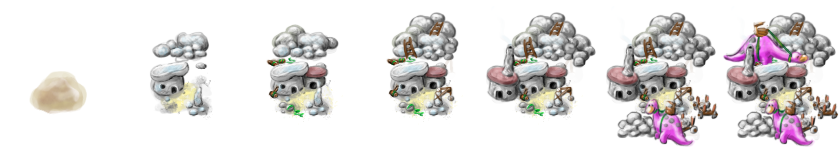
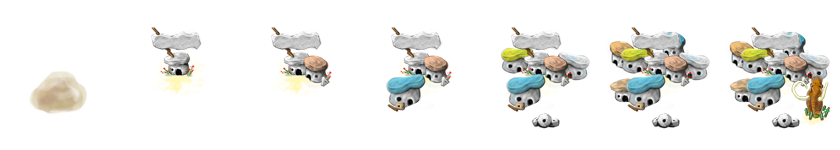
new images, display settlement after it's loaded

diff --git a/client/js/awe/util/rulehelpers.js b/client/js/awe/util/rulehelpers.js
@@ -163,7 +163,7 @@ AWE.Util.Rules = (function(module) /** @lends AWE.Util.Rules */ {
       return module.meetsScienceRequirement(requirement, character, considerJobs);
     }
     else {
-      console.log('ERROR: Requirement of unknown type ', requirement.type);
+      //console.log('ERROR: Requirement of unknown type ', requirement.type);
     }
     return true ;
   };
@@ -192,18 +192,22 @@ AWE.Util.Rules = (function(module) /** @lends AWE.Util.Rules */ {
     var slots = settlement.get('enumerableSlots') || [];
     var maxMet = !(requirement.max_level !== undefined && requirement.max_level !== null && requirement.max_level < 0) ; // cannot bet true, when smaller than zero.
     var minMet = requirement.min_level === undefined || requirement.min_level === null || requirement.min_level <= 0; // it's always true, if it's not specified or less equal 0
+    var excludeSlotNum = slotToExclude ? slotToExclude.get('slot_num') : -1;
     
     slots.forEach(function(item) {
-      if (! slotToExclude || slotToExclude.get('slot_num') !== item.get('slot_num')) {
-        var buildingId = item.get('building_id');
-        if (buildingId && requirement.id === buildingId && requirement.max_level !== undefined && requirement.max_level !== null) {
+      if (excludeSlotNum !== item.get('slot_num')) {
+
+        var buildingId = item.get('building_id'); 
+        buildingId = buildingId === undefined || buildingId === null ? -1 : buildingId; //protect against undefined and null, wheras id 0 is ok!
+        if (requirement.id === buildingId && requirement.max_level !== undefined && requirement.max_level !== null) {
           maxMet = maxMet && requirement.max_level >= (considerJobs ? item.get('levelAfterJobs') : item.get('level'));    // all buildings must not be larger than the max level. may consider ongoing jobs in order to prevent queueing two mutually exclusive buildings
         }
-        if (buildingId && requirement.id === buildingId && requirement.min_level) {
+        if (requirement.id === buildingId && requirement.min_level) {
           minMet = minMet || requirement.min_level <= item.get('level');    // one building must be larger than or equal to the min level; no not consider ongoing jobs; building must be finished to allow queueing of a dependent building
         }
       }
     });
+    
     return maxMet && minMet;
   };
   

diff --git a/client/js/awe/UI/ember/templates/basescreen.html b/client/js/awe/UI/ember/templates/basescreen.html
@@ -22,22 +22,20 @@
       {{#if queues }}
         {{view AWE.UI.Ember.ConstructionQueueView controllerBinding="controller" classNames="queue-list" queuesBinding="queues.collection"}}
       {{/if}}
-    {{/if}}
 
-    {{#if selectedSlot}}
-      {{#if selectedSlot.building }}
-        {{view AWE.UI.Ember.BuildingDetailsDialog controllerBinding="controller" slotBinding="selectedSlot" buildingBinding="selectedSlot.building"}}
-      {{else}}
-        {{view AWE.UI.Ember.SelectBuildingDialog controllerBinding="controller" slotBinding="selectedSlot" constructionOptionsBinding="selectedSlot.constructionOptions"}}
+      {{#if selectedSlot}}
+        {{#if selectedSlot.building }}
+          {{view AWE.UI.Ember.BuildingDetailsDialog controllerBinding="controller" slotBinding="selectedSlot" buildingBinding="selectedSlot.building"}}
+        {{else}}
+          {{view AWE.UI.Ember.SelectBuildingDialog controllerBinding="controller" slotBinding="selectedSlot" constructionOptionsBinding="selectedSlot.constructionOptions"}}
+        {{/if}}
       {{/if}}
-    {{/if}}
     
-    {{#if "hoveredBuildingSlotView" }}
-      {{view AWE.UI.Ember.ToolTipView templateName="building-slot-tooltip" classNames="mouse-over" mouseXBinding="hoveredBuildingSlotView.mouseX" mouseYBinding="hoveredBuildingSlotView.mouseY" buildingBinding="hoveredBuildingSlotView.slot.building"}}
-    {{/if}}      
-  </div>
+      {{#if "hoveredBuildingSlotView" }}
+        {{view AWE.UI.Ember.ToolTipView templateName="building-slot-tooltip" classNames="mouse-over" mouseXBinding="hoveredBuildingSlotView.mouseX" mouseYBinding="hoveredBuildingSlotView.mouseY" buildingBinding="hoveredBuildingSlotView.slot.building"}}
+      {{/if}}      
+    </div>
   
-  {{#if settlement}}
     {{view AWE.UI.Ember.SettlementInfoBoxView classNames="settlement-info-box" settlementBinding="settlement" }}
   {{/if}}
 </div>

diff --git a/client/js/awe/UI/ember/templates/settlementviews.html b/client/js/awe/UI/ember/templates/settlementviews.html
@@ -2,12 +2,12 @@
 
 <script type="text/x-handlebars" data-template-name="settlement-info-box">
   <h1>{{settlement.name}} <a href="#" class="change-name" {{action "changeNamePressed"}}>change name</a></h1>
-  <p><span title="defensive bonus to all armies fighting on the side of this settlement">Def +{{defenseBonus}}%</span> | 
-     <span title="rate at which new buildings and upgrades are constructed"> B {{view AWE.UI.Ember.WheelOrValueView valueBinding="buildingSpeed"}}%</span> | 
-     <span title="rate at which foot soldiers are trained"     >F {{infantryTrainingSpeed}}%</span> |
-     <span title="rate at which mounted troops are trained"    >C {{cavalryTrainingSpeed}}%</span> | 
-     <span title="rate at which ranged troops are trained"     >R {{artilleryTrainingSpeed}}%</span> | 
-     <span title="rate at which siege machines are constructed">S {{siegeTrainingSpeed}}%</span><br>
+  <p><span title="defensive bonus to all armies fighting on the side of this settlement">Def +{{formatNumber defenseBonus places="0"}}%</span> | 
+     <span title="rate at which new buildings and upgrades are constructed"> B {{formatNumber buildingSpeed places="0"}}%</span> | 
+     <span title="rate at which foot soldiers are trained"     >F {{formatNumber infantryTrainingSpeed places="0"}}%</span> |
+     <span title="rate at which mounted troops are trained"    >C {{formatNumber cavalryTrainingSpeed places="0"}}%</span> | 
+     <span title="rate at which ranged troops are trained"     >R {{formatNumber artilleryTrainingSpeed places="0"}}%</span> | 
+     <span title="rate at which siege machines are constructed">S {{formatNumber siegeTrainingSpeed places="0"}}%</span><br>
   
      {{#each settlement.resourceProductions}}
        <span {{bindAttr title="localizedDetails"}}="">{{local resourceType.name}} {{formatNumber rate places="0"}}/h</span> |

diff --git a/client/css/style.css b/client/css/style.css
@@ -863,6 +863,8 @@ span.bonus {
   
   cursor: pointer; 
 }
+
+
 .building-option.requirement-unmet {
   background-color: #FDD;
 }
@@ -906,14 +908,24 @@ span.bonus {
   width: 120px;
   height:150px;
   margin-left: 0px;
+  background: url('../images/settlements/base/building_category_large_building.png');
 }
 
-/** image for building_siege_tower */
+.base-screen .settlement-dialog-building-details .building-option-image {
+  margin-top: -10px;
+  margin-bottom: -10px;
+}
+
+
+/** image for base buildings */
 .building-option-image.building_quarry {
   background: url('../images/settlements/base/building_quarry_large.png');
 }
 .building-option-image.building_palace {
   background: url('../images/settlements/base/building_palace_large.png');
+}
+.building-option-image.building_logger {
+  background: url('../images/settlements/base/building_logger_large.png');
 }
 
 
@@ -1365,8 +1377,23 @@ span.bonus {
   background: url('../images/settlements/fortress/building_cavalry_tower.png');
 }
 
+/** base: large slots */
 .base-picture .large-building.building_palace {
   background: url('../images/settlements/base/building_palace_large.png');
+}
+.base-picture .large-building.building_logger {
+  background: url('../images/settlements/base/building_logger_large.png');
+}
+.base-picture .large-building.building_quarry {
+  background: url('../images/settlements/base/building_quarry_large.png');
+}
+
+/** base: small slots */
+.base-picture .small-building.building_logger {
+  background: url('../images/settlements/base/building_logger_small.png');
+}
+.base-picture .small-building.building_quarry {
+  background: url('../images/settlements/base/building_quarry_small.png');
 }
 
 

diff --git a/client/js/awe/UI/ember/templates/fortressscreen.html b/client/js/awe/UI/ember/templates/fortressscreen.html
@@ -15,20 +15,19 @@
       {{/if}}
 
       {{view AWE.UI.Ember.SettlementInfoBoxView classNames="settlement-info-box" settlementBinding="settlement"}}
-    {{/if}}
 
-    {{#if selectedSlot}}
-      {{#if selectedSlot.building }}
-        {{view AWE.UI.Ember.BuildingDetailsDialog controllerBinding="controller" slotBinding="selectedSlot" buildingBinding="selectedSlot.building"}}
-      {{else}}
-        {{view AWE.UI.Ember.SelectBuildingDialog controllerBinding="controller" slotBinding="selectedSlot" constructionOptionsBinding="selectedSlot.constructionOptions"}}
+      {{#if selectedSlot}}
+        {{#if selectedSlot.building }}
+          {{view AWE.UI.Ember.BuildingDetailsDialog controllerBinding="controller" slotBinding="selectedSlot" buildingBinding="selectedSlot.building"}}
+        {{else}}
+          {{view AWE.UI.Ember.SelectBuildingDialog controllerBinding="controller" slotBinding="selectedSlot" constructionOptionsBinding="selectedSlot.constructionOptions"}}
+        {{/if}}
       {{/if}}
+    
+      {{#if "hoveredBuildingSlotView" }}
+        {{view AWE.UI.Ember.ToolTipView templateName="building-slot-tooltip" classNames="mouse-over" mouseXBinding="hoveredBuildingSlotView.mouseX" mouseYBinding="hoveredBuildingSlotView.mouseY" buildingBinding="hoveredBuildingSlotView.slot.building"}}
+      {{/if}}    
     {{/if}}
-    
-    {{#if "hoveredBuildingSlotView" }}
-      {{view AWE.UI.Ember.ToolTipView templateName="building-slot-tooltip" classNames="mouse-over" mouseXBinding="hoveredBuildingSlotView.mouseX" mouseYBinding="hoveredBuildingSlotView.mouseY" buildingBinding="hoveredBuildingSlotView.slot.building"}}
-    {{/if}}    
-    
   </div>
 </div>
 </script>

diff --git a/client/js/awe/gamestate/slot.js b/client/js/awe/gamestate/slot.js
@@ -142,8 +142,8 @@ AWE.GS = (function(module) {
       var settlement = this.getPath('slot.settlement');
       var character = settlement ? settlement.owner() : null;
       var slot = this.get('slot');
-      return AWE.Util.Rules.failedRequirements(this.getPath('buildingType.requirements'), settlement, slot, character, true);
-    }.property('buildingType', 'slot.settlement.hashableSlots.changedAt'),
+      return AWE.Util.Rules.failedRequirements(this.getPath('buildingType.requirements'), settlement, character, slot, true);
+    }.property('buildingType', 'slot.settlement.hashableSlots.changedAt').cacheable(),
 
 		/** bool for indicating whether or not all requirements for constructin
 		 * this building are met. */
@@ -246,7 +246,7 @@ AWE.GS = (function(module) {
 
 		canBeTornDown: function() {
 		  
-		}.property('level', 'buildingId'),
+		}.property('level', 'buildingId').cacheable(),
 		
 		
   });    
